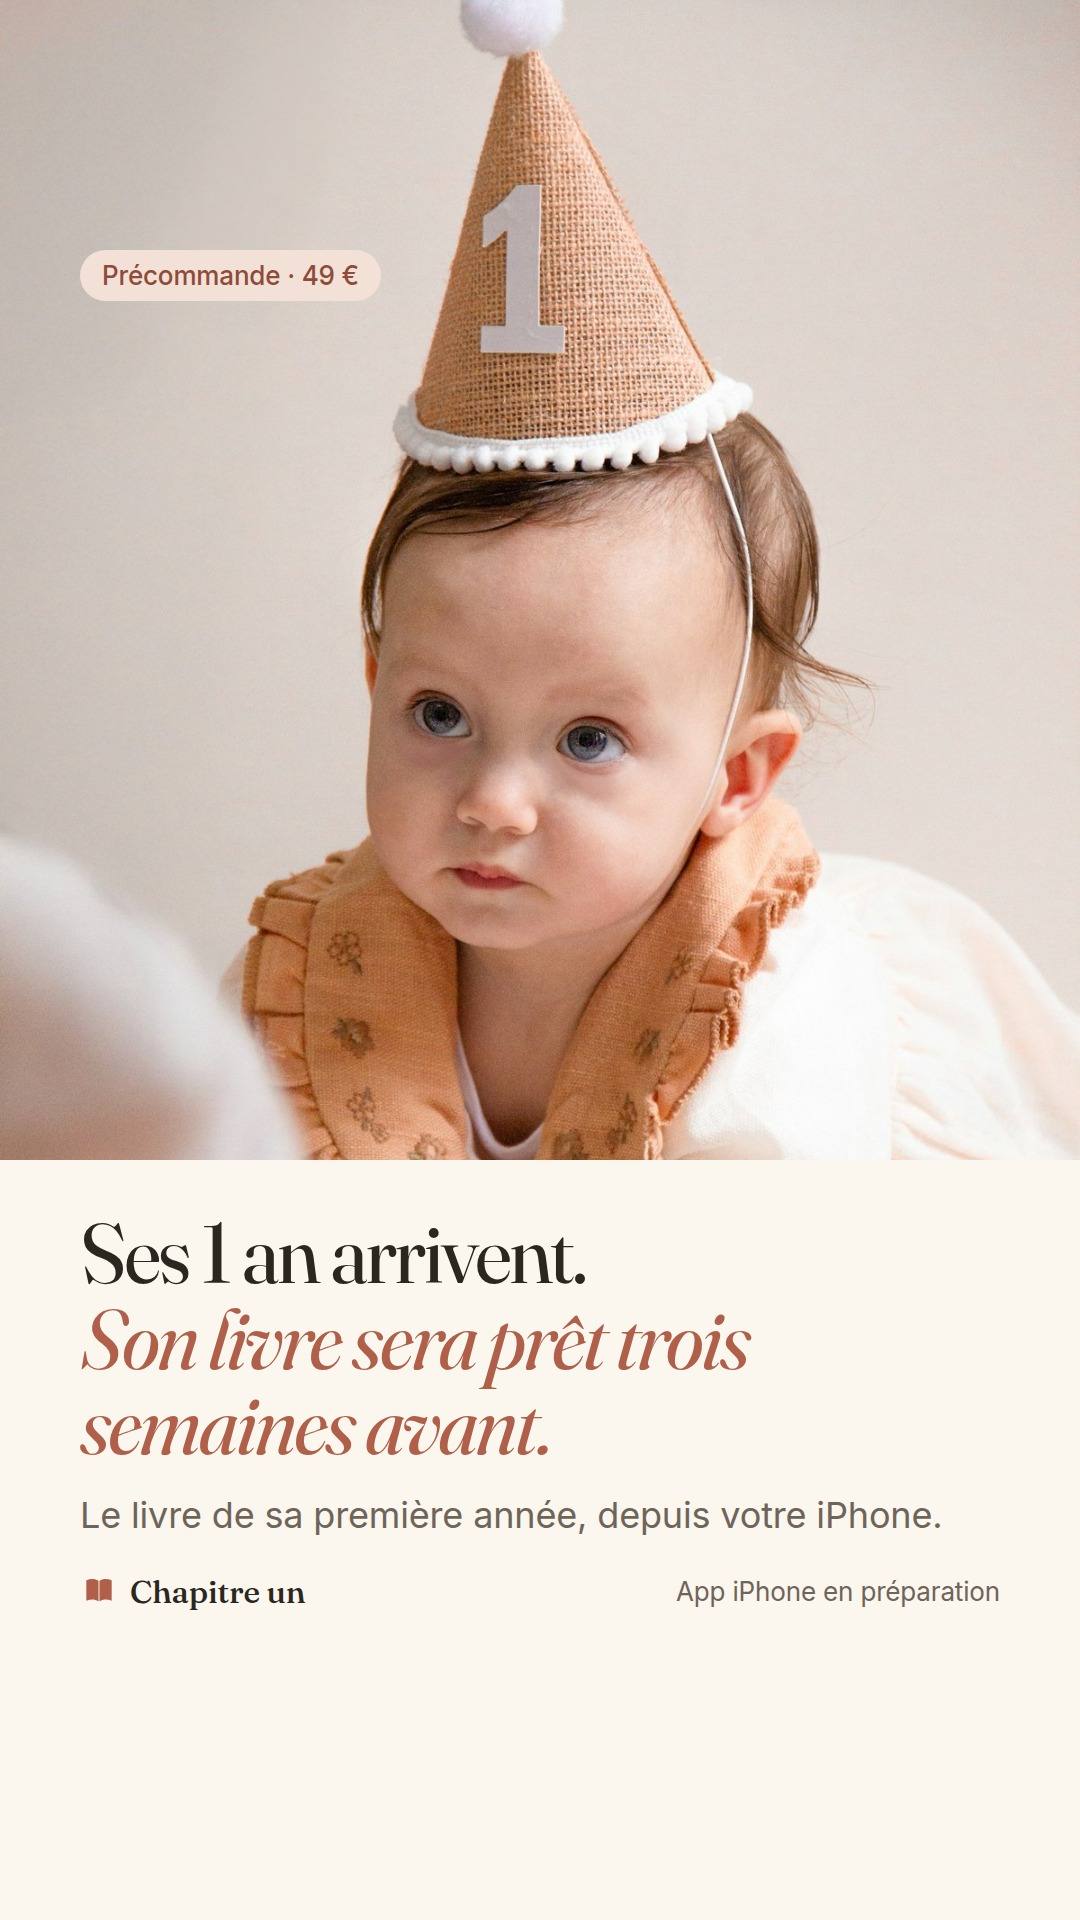
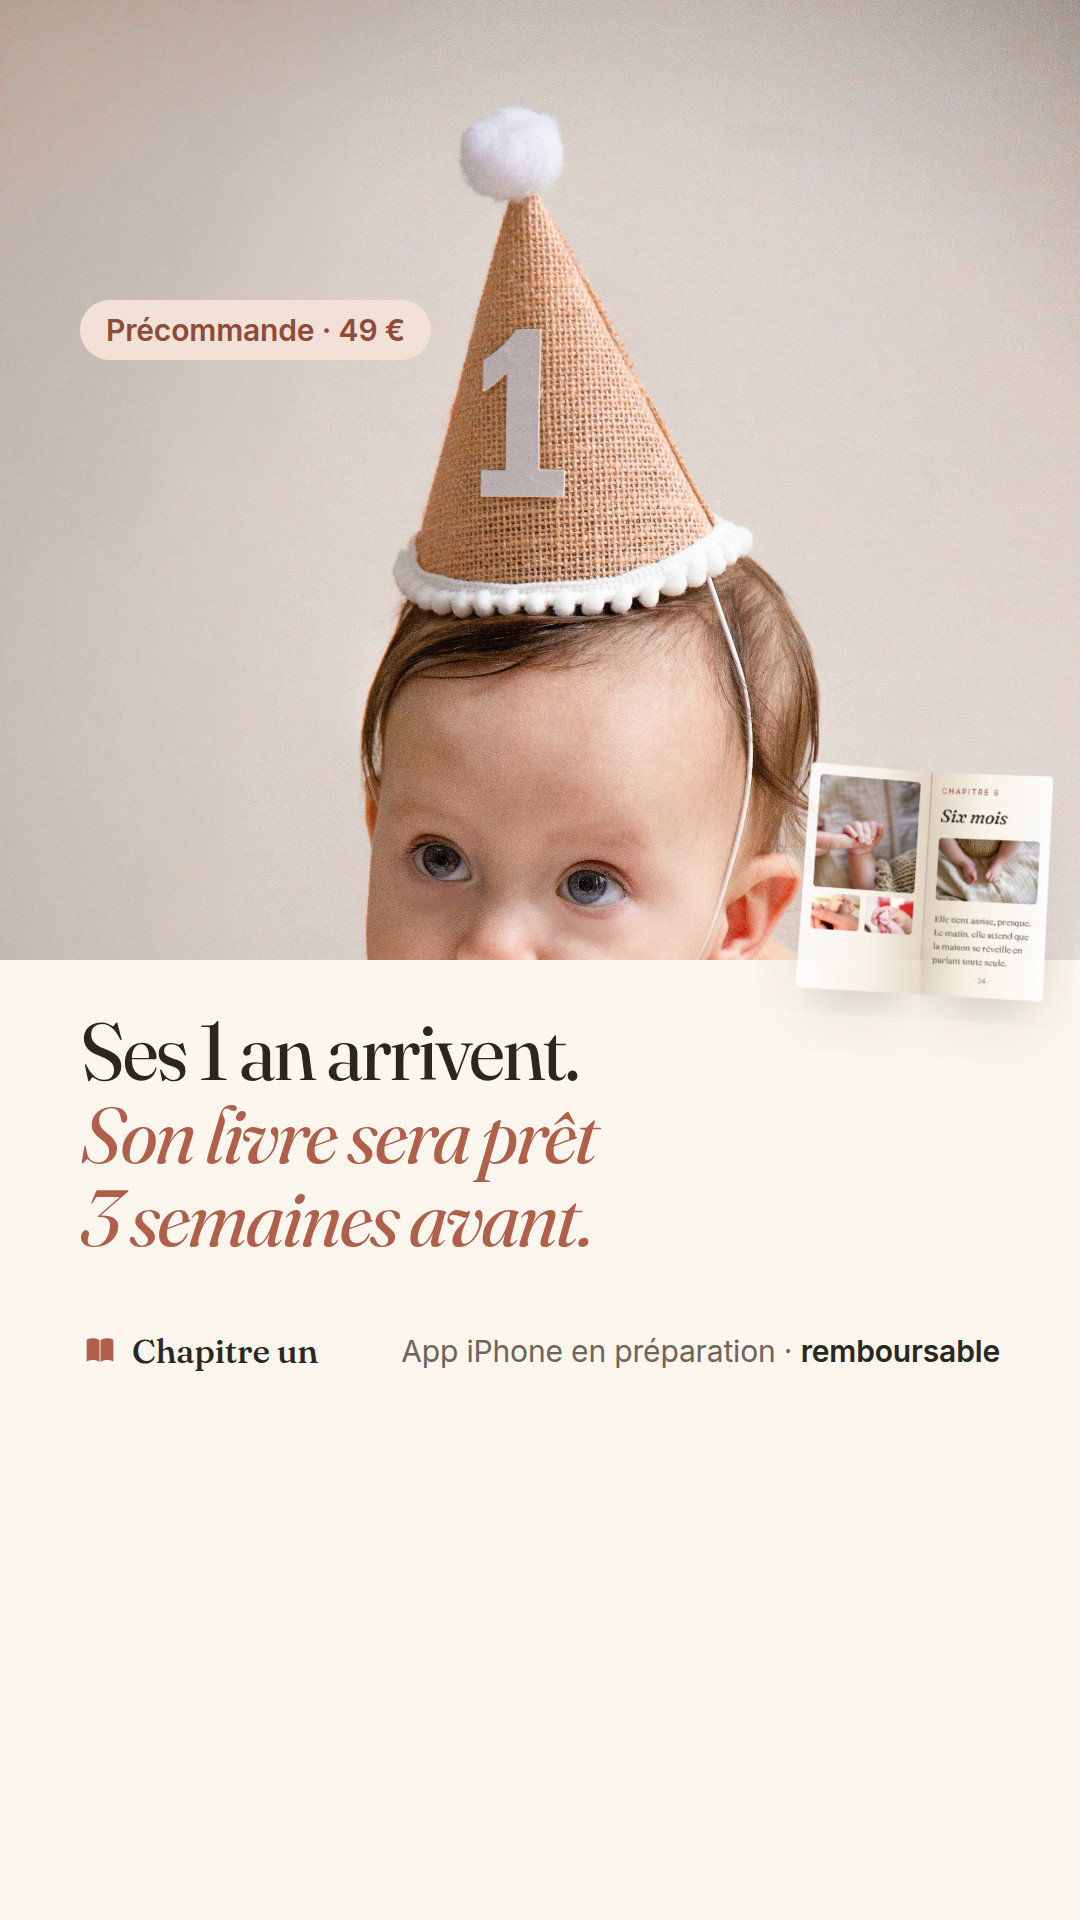
Pubs : visuels A, C, D refaits d'après les bonnes pratiques 2026
Après une recherche sur les pubs statiques qui marchent sur Instagram en
2026 (benchmarks Motion, étude de 67 852 pubs DTC, zones sûres unifiées
de mars 2026, Bibliothèque publicitaire Meta pour les concurrents) :

- une idée par visuel, titre de 8 mots au plus, assez grand pour la
  vignette ; plus de paragraphe sur l'image ; offre et mention
  « app en préparation · remboursable » conservées ;
- A : une vraie photo d'un livre ouvert tenu en mains, notre double page
  projetée dans les pages (homographie CSS matrix3d, fondu multiply) ;
- C : photo en haute définition, titre en trois lignes courtes, carte du
  livre ajoutée ;
- D : photo resserrée sur la grimace, titre raccourci, une ligne de
  réponse ;
- 9:16 : rien d'important dans les zones couvertes par Stories et Reels.

Docs : TEXTES.md, CREDITS.md (photo de John pour A), JOURNAL.md
(recherche, décision, pièges Meta et visuels), TODO-marketing.md.

Claude-Session: https://claude.ai/code/session_01HsVDdYZp9dkLzEWZ2qkJMn

diff --git a/JOURNAL.md b/JOURNAL.md
@@ -198,6 +198,37 @@ Les citations sont les demandes du fondateur, raccourcies.
   par « Sans abonnement »), question FAQ « Est-ce que vous voyez mes
   photos ? », phrase du pied de page ; et phrase de Confidentialité.
   `competitor.md` marque l'argument comme retiré.
+- « J'aime bien les pubs, mais il y a probablement des améliorations à
+  apporter. Revois les visuels avec tout ce que tu sais des pubs qui
+  fonctionnent sur Instagram ; commence par des recherches sur les sites
+  spécialisés. » → recherche sur les six derniers mois (benchmarks Motion
+  2026 sur 550 000 pubs Meta ; étude Curtis Howland de 67 852 pubs de 106
+  marques DTC ; guides des zones sûres 2026 ; playbooks statiques de
+  Superscale, Admetrics, Brandmov, Stirling) et Bibliothèque publicitaire
+  Meta (Cheerz, Popsa, Nos Petites Aventures, Souvence). Ce qui en ressort,
+  et qu'on a appliqué :
+  - **une idée par visuel**, titre de 8 mots au plus, assez grand pour se
+    lire en vignette (le fil affiche l'image à environ 36 % de sa taille) ;
+  - **un sujet visuel net en moins d'une demi-seconde** : un visage, ou le
+    produit tenu en mains ; les maquettes à plat et les photos de banque trop
+    léchées font « pub » et convertissent moins ;
+  - **le produit et l'offre visibles** sur l'image, moins de 20 % de la
+    surface en texte, pas de paragraphe (le texte principal au-dessus porte
+    le détail) ;
+  - **zones sûres 9:16** unifiées par Meta en mars 2026 : 270 px en haut,
+    670 px en bas, 65 px sur les côtés ;
+  - les pubs simples (texte seul, produit + texte) sont parmi celles qui
+    gagnent le plus souvent ; environ 5 % des pubs deviennent de vrais
+    gagnants, d'où l'intérêt de tester plusieurs angles.
+  Côté concurrents, toutes les pubs vendent la vitesse et la remise (Popsa
+  « Livres photo en 5 minutes - 50 % », Cheerz « -20 % », « Créez votre
+  album ») : « sans rien faire » reste un cran au-dessus de « 5 minutes ».
+  Résultat (version 3 des visuels) : **A** = une vraie photo d'un livre
+  ouvert tenu en mains, dans lequel notre double page est projetée (quatre
+  coins → `matrix3d`, fondu `multiply` pour garder la lumière des pages et
+  les pouces) ; **C** = photo plus grande, titre en trois lignes courtes,
+  carte du livre ; **D** = photo resserrée sur la grimace, titre raccourci,
+  une ligne de réponse. Les créations Meta sont recréées (voir pièges).
 
 ## 4. Décisions et leurs raisons
 
@@ -222,6 +253,7 @@ Les citations sont les demandes du fondateur, raccourcies.
 | **20 €/jour** au niveau campagne, une seule audience large | Haut de la fourchette du plan (15–20 €/jour, 300–500 € au total) ; 4 à 5 pubs dans un seul ensemble pour que Meta répartisse | 280 € sur 14 jours |
 | Audience Advantage+ : France, iPhone (iOS), 25 ans min., 25–40 ans en **suggestion** | Meta refuse un âge maximum ferme sous 65 ans avec Advantage+ | Vérifier la répartition par âge au bilan |
 | Bouton **« Commander »** (`ORDER_NOW`) | « Précommander » n'existe pas chez Meta | — |
+| Visuels **v3** refaits d'après les benchmarks 2026 (3 oct. soir) | Une idée par visuel, titre court et grand, visage ou livre en mains, texte < 20 %, zones sûres 9:16 | Comparer au bilan le CTR des trois ; si tout est < 0,8 %, c'est le message, pas la mise en page |
 
 **Règle de décision** (adoptée le 2 octobre) : après 500 visites venues des
 pubs ou 14 jours, au premier des deux termes.
@@ -287,6 +319,25 @@ confirmer avec un devis d'imprimeur.
   < 65 interdit avec Advantage+ : passer `age_range` en suggestion.
 - La description n'apparaît ni dans le fil Facebook ni sur Instagram pour une
   image seule : ne rien y mettre d'important.
+- Meta **télécharge l'image au moment où la création publicitaire est
+  créée** : remplacer le fichier à la même URL ne change pas la pub en
+  ligne, il faut recréer la création et la pub (et supprimer l'ancienne). De
+  plus, raw.githubusercontent.com garde l'ancien fichier en cache quelques
+  minutes après un merge : vérifier le `sha256` du fichier servi avant de
+  créer la création.
+
+**Côté visuels (3 octobre, soir)**
+- Projeter notre double page dans la photo d'un vrai livre : relever les
+  quatre coins de chaque page sur la photo (zooms quadrillés), calculer
+  l'homographie page → coins (système 8×8 résolu à la main, pas de numpy
+  dans l'environnement : `homog.py`), l'appliquer en CSS `matrix3d`, et
+  poser la page en `mix-blend-mode: multiply` pour garder l'ombre du papier
+  et les doigts qui tiennent le livre. Rendu une fois en JPG, puis utilisé
+  comme simple image dans le canevas.
+- Unsplash : la recherche passe par `unsplash.com/napi/search/photos`
+  (bloquée pour curl par le contrôle anti-robot, accessible via WebFetch) ;
+  les images se téléchargent librement sur `images.unsplash.com`. Reprendre
+  les photos en 2 000 px et plus dès qu'on recadre serré.
 
 **Côté Google et Stripe**
 - Dans GA4, « Create an event / Create without code » fabrique un **nouvel**
@@ -357,14 +408,15 @@ confirmer avec un devis d'imprimeur.
 - Il travaille en parallèle avec d'autres sessions : toujours repartir de
   `origin/main` à jour.
 
-## 8. État au 3 octobre 2026, fin de matinée
+## 8. État au 3 octobre 2026, soir
 
 Fait : page en ligne et rapide, paiement live, GA4 et pixel vérifiés,
 portefeuille, compte pub, page, Instagram et domaine Meta en place, règle de
 décision fixée, Buffer connecté, achat test validé de bout en bout,
-**pubs prêtes** : visuels A, C, D (4:5 et 9:16), vidéo démo B, textes
-(`pubs/tour-1/`), campagne « Test 1 » créée **en pause** avec les pubs A, C,
-D (E, vie privée, supprimée à la relecture) (canevas : https://claude.ai/artifact/Ku993NrFX88eBuqkq9ww26).
+**pubs prêtes** : visuels A, C, D (4:5 et 9:16, refaits le soir d'après les
+bonnes pratiques 2026), vidéo démo B, textes (`pubs/tour-1/`), campagne
+« Test 1 » créée **en pause** avec les pubs A, C, D (E, vie privée,
+supprimée à la relecture) (canevas : https://claude.ai/artifact/Ku993NrFX88eBuqkq9ww26).
 
 Reste au fondateur : relire les pubs, ajouter la vidéo B (et si possible les
 versions 9:16) dans le Gestionnaire de publicités, activer la campagne ; puis

diff --git a/TODO-marketing.md b/TODO-marketing.md
@@ -13,7 +13,7 @@ Fichier interne, non publié sur chapitreun.com.
 
 ---
 
-## Où on en est (3 octobre 2026, 11 h)
+## Où on en est (3 octobre 2026, soir)
 
 > ### 🟡 Les pubs sont prêtes, en pause : à relire puis activer [vous]
 >
@@ -22,7 +22,10 @@ Fichier interne, non publié sur chapitreun.com.
 > `InitiateCheckout`. Un ensemble « France · 25-40 · iPhone · large »
 > (`120249512388300314`) avec 3 pubs : A (son livre photo, sans rien
 > faire), C (la date), D (trop de choses à faire, en humour), en 4:5. La pub E (vie privée) a été
-> supprimée le 3 octobre.
+> supprimée le 3 octobre. Visuels **refaits le 3 octobre au soir** d'après
+> les bonnes pratiques 2026 (une idée par visuel, grand titre, visage ou
+> livre tenu en mains, zones sûres 9:16) ; les pubs Meta ont été recréées
+> avec ces visuels, mêmes textes et mêmes liens.
 > Visuels, vidéo et textes : `pubs/tour-1/` ; canevas modifiable :
 > https://claude.ai/artifact/Ku993NrFX88eBuqkq9ww26
 >
@@ -147,8 +150,9 @@ on ne vend pas un produit fini (obligation légale, et cohérent avec la page).
 
 Tester **4 à 6 pubs** au premier tour, une idée par pub :
 
-- [x] **A. « Son livre photo, sans rien faire »** (version 2 du 3 octobre :
-      le livre ouvert en grand ; la version 1 ci-dessous partait des photos
+- [x] **A. « Son livre photo, sans rien faire »** (version 3 du 3 octobre au
+      soir : un vrai livre tenu en mains, notre double page projetée dedans ;
+      version 2 : le livre ouvert en grand, à plat ; la version 1 ci-dessous partait des photos
       et a été remplacée après relecture) —
       ancienne idée : **« 4 000 photos. 0 album. »** — image fixe, le constat en grand,
       puis « Le livre de sa première année se fait tout seul. » **[Claude]**
@@ -158,9 +162,11 @@ Tester **4 à 6 pubs** au premier tour, une idée par pub :
       l'enregistrer depuis l'animation de la page (capture image par image +
       ffmpeg, disponible dans l'environnement).
 - [x] **C. La date** — « Ses 1 an arrivent en mars. Son livre sera prêt fin
-      février. » La promesse que personne ne fait (livraison datée).
-- [x] **D. « Trop de choses à faire », en humour** (version 2 du 3 octobre : la
-      version « le soir » était culpabilisante) — ancienne idée : **Les 40 minutes du soir** — le registre culpabilité → soulagement
+      février. » La promesse que personne ne fait (livraison datée). Version 3
+      du 3 octobre au soir : titre en trois lignes courtes, carte du livre.
+- [x] **D. « Trop de choses à faire », en humour** (version 3 du 3 octobre au
+      soir : photo resserrée sur la grimace, titre raccourci ; version 2 du
+      3 octobre : la version « le soir » était culpabilisante) — ancienne idée : **Les 40 minutes du soir** — le registre culpabilité → soulagement
       (le meilleur levier relevé chez Popsa). Texte long, une photo douce.
 - [x] ~~**E. Vie privée**~~ — **supprimée le 3 octobre** : le fondateur
       n'est pas sûr de garder la fonction (analyse sur l'iPhone). Plus aucun
@@ -270,3 +276,8 @@ _(à remplir : date, chiffres, décision)_
   : la version « 22 h, vous triez encore ses photos » était culpabilisante.
 - **3 octobre 2026 (soir)** — mentions vie privée retirées aussi de la landing
   page et de la page Confidentialité (même raison).
+- **3 octobre 2026 (soir)** — visuels A, C, D refaits d'après une recherche
+  sur les pubs statiques qui marchent en 2026 (une idée par visuel, titre de
+  8 mots au plus, visage ou livre en mains, moins de 20 % de texte, zones
+  sûres 9:16) ; détail dans `JOURNAL.md`. Pubs Meta recréées avec les
+  nouveaux visuels (Meta fige l'image à la création), mêmes textes et liens.

diff --git a/pubs/tour-1/TEXTES.md b/pubs/tour-1/TEXTES.md
@@ -13,6 +13,17 @@ sur la vie privée** (analyse sur l'iPhone, aucune photo envoyée) : le
 fondateur n'est pas sûr de garder cette fonction (3 octobre), la pub E a été
 supprimée et la mention retirée de la vidéo B.
 
+**Visuels, version 3 (3 octobre au soir).** Après une recherche sur les pubs
+statiques qui marchent en 2026 (détail dans `JOURNAL.md`, 3 octobre), les
+trois visuels ont été refaits selon ces règles : **une idée par visuel**, un
+titre de 8 mots au plus, assez grand pour se lire en vignette ; **un sujet
+visuel net** (un visage, ou le livre tenu en mains) ; **le livre visible sur
+chaque pub** ; moins de 20 % de la surface en texte, pas de paragraphe (le
+détail est dans le texte principal, au-dessus de l'image) ; l'offre
+(« Précommande · 49 € ») et la mention « app en préparation · remboursable »
+sur l'image ; en 9:16, rien d'important dans les 270 px du haut ni les 670 px
+du bas (zones couvertes par l'interface de Stories et Reels).
+
 Lien de chaque pub :
 `https://chapitreun.com/?utm_source=meta&utm_medium=paid&utm_campaign=test1&utm_content=<nom>`
 avec `<nom>` = `a-livre`, `b-demo`, `c-date`, `d-humour`.
@@ -28,6 +39,13 @@ Description (commune, quand Meta l'affiche) : **Remboursable à tout moment**
 Version 2 (3 octobre, après relecture du fondateur) : la première version
 (« 4 000 photos. 0 album. ») parlait des photos qui s'entassent avant de
 parler du livre. Règle retenue : **le livre d'abord, puis « rien à faire »**.
+
+Visuel v3 : titre « Son livre photo, *sans rien faire.* », sous-titre « Fait à
+partir des photos de votre iPhone. App en préparation · remboursable à tout
+moment. », puis la photo d'une jeune femme qui tient le livre ouvert sur ses
+genoux (vue de dessus) ; notre double page « Chapitre 6 · Six mois » y est
+projetée dans les pages. La v2 montrait la double page seule, à plat, sur
+fond crème : trop « maquette », sans élément humain.
 
 **Textes principaux**
 
@@ -80,6 +98,11 @@ Précommande · 49 €
 
 ## C · La date
 
+Visuel v3 : photo du bébé au chapeau « 1 » (plus grande, en haute
+définition), carte du livre posée sur le bord de la photo, titre en trois
+lignes courtes : « Ses 1 an arrivent. *Son livre sera prêt 3 semaines
+avant.* ». La ligne « depuis votre iPhone » a été retirée du visuel.
+
 **Textes principaux**
 
 1. Ses 1 an arrivent plus vite que prévu. Son livre, lui, sera prêt trois
@@ -107,6 +130,11 @@ Version 2 (3 octobre, après relecture du fondateur) : la première version
 (« 22 h, la maison dort. Et vous triez encore ses photos. ») était
 culpabilisante et pessimiste. Ton retenu : **l'humour**, une maman qui lève
 les yeux au ciel (« pfff, je fais trop de choses »), puis la solution.
+
+Visuel v3 : même photo, en haute définition et resserrée sur la grimace de la
+maman et le visage du bébé ; titre raccourci « Couches, biberons, lessives…
+*et son album photo, on en parle ?* » puis une seule ligne de réponse :
+« Respirez : il se fait tout seul. »
 
 **Textes principaux**
 

diff --git a/landing-page/assets/photos/CREDITS.md b/landing-page/assets/photos/CREDITS.md
@@ -62,14 +62,18 @@ présentable, elle ne casse pas.
 Photos des visuels de `pubs/tour-1/`, prises sur **Unsplash** (licence
 Unsplash : usage commercial gratuit, attribution non exigée). Comme pour CC0,
 la licence ne garantit pas l'accord des personnes photographiées : risque
-assumé par le fondateur le 3 octobre 2026. La pub A (version 2) montre le livre
-ouvert de la page, avec ses photos CC0 (`det-6`, `det-2`, `det-1`,
-`mois-06`). La pellicule de la version 1 (retirée) mêlait les photos
+assumé par le fondateur le 3 octobre 2026. La pub A (version 3) montre un
+vrai livre tenu en mains (photo Unsplash de John, ci-dessous, pages blanches)
+dans lequel la double page de la page web est projetée, avec ses photos CC0
+(`det-6`, `det-2`, `det-1`, `mois-06`) ; la version 2 montrait cette double
+page seule. Les photos de C et D ont été reprises en plus haute définition le
+3 octobre au soir (mêmes photos). La pellicule de la version 1 (retirée) mêlait les photos
 marquées « A (pellicule) » ci-dessous et des photos CC0 de la page. Pexels n'a
 pas servi pour ce tour.
 
 | Pub | Description | Auteur | Source |
 | --- | --- | --- | --- |
+| A (v3) | Une jeune femme tient un livre ouvert aux pages blanches sur ses genoux, vu de dessus | John | [unsplash](https://unsplash.com/photos/bNCKsUyQYmM) |
 | C | Bébé au chapeau de fête « 1 » | Selenay Balkan | [unsplash](https://unsplash.com/photos/Bt4XZy_MccE) |
 | D | Une mère lève les yeux au ciel, son bébé sur les genoux | Ruhbi Sutisna | [unsplash](https://unsplash.com/photos/jPyFThCAvd4) |
 | D (v1, retirée) | Le soir, une mère et son bébé dans un fauteuil | Paul Johnston | [unsplash](https://unsplash.com/photos/UhvvbFDSzL8) |
